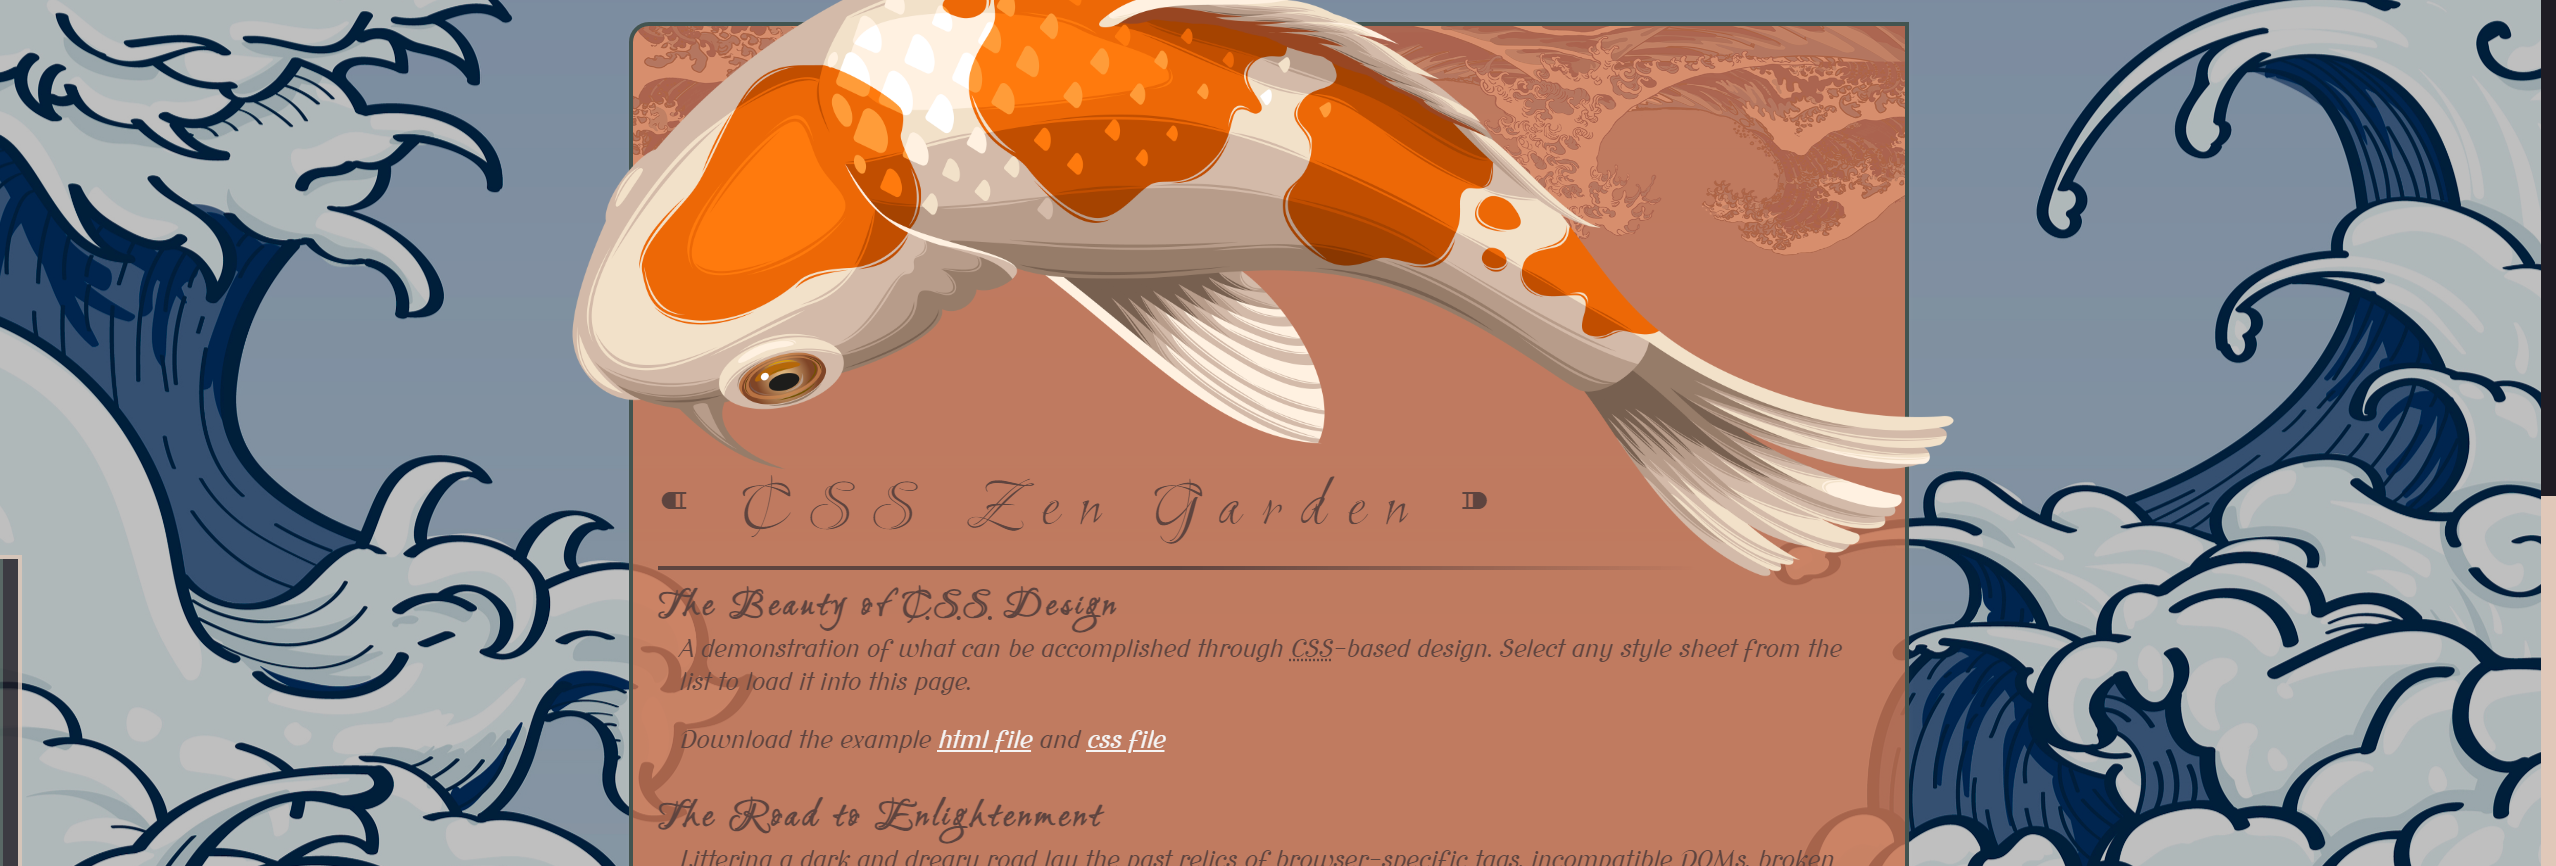
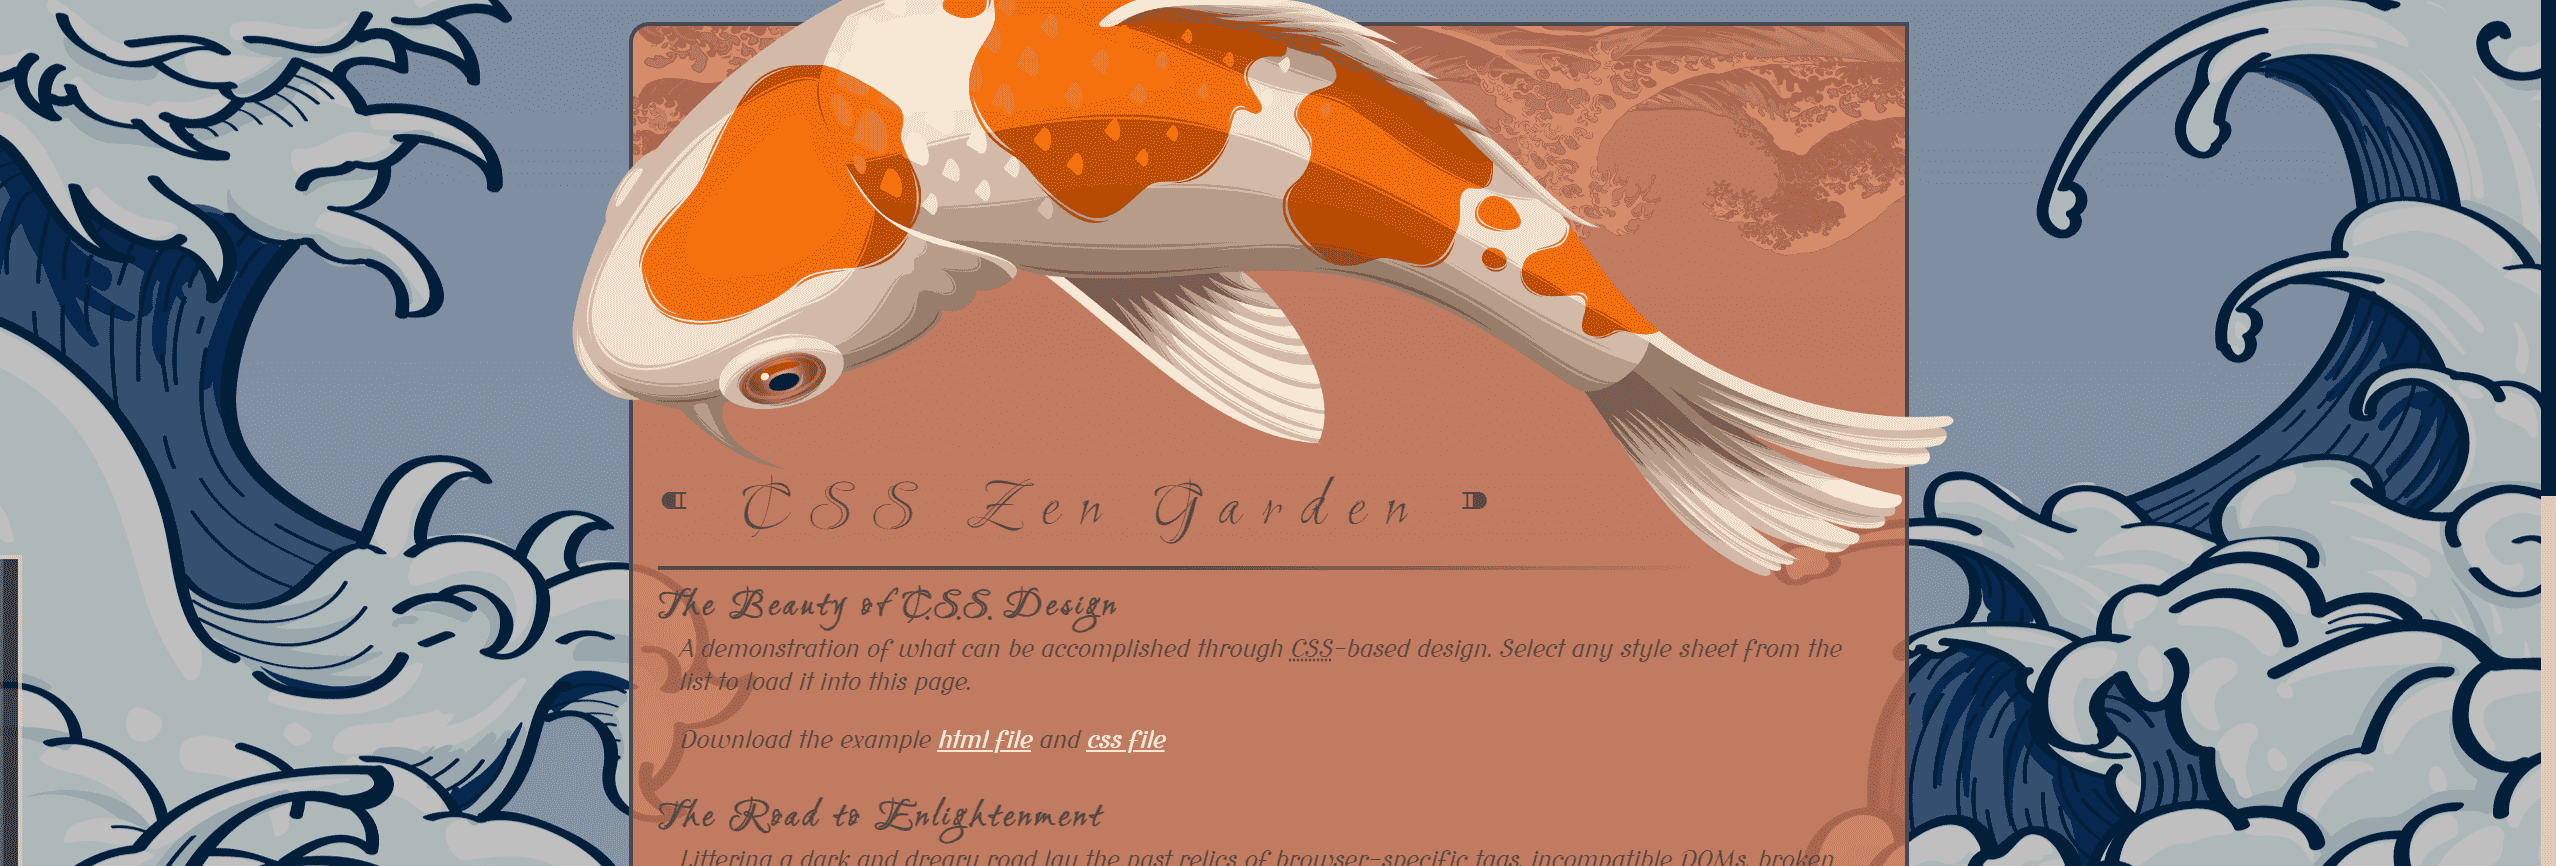
optimized images

diff --git a/scripts/global.js b/scripts/global.js
@@ -23,5 +23,5 @@ exit.onclick = function () {
 
 let logo = document.querySelector('#logo')
 logo.onclick = function () {
-    window.open('https://evans-digital-portfolio.netlify.app/home')
+    window.open('../home.html', '_self')
 }
